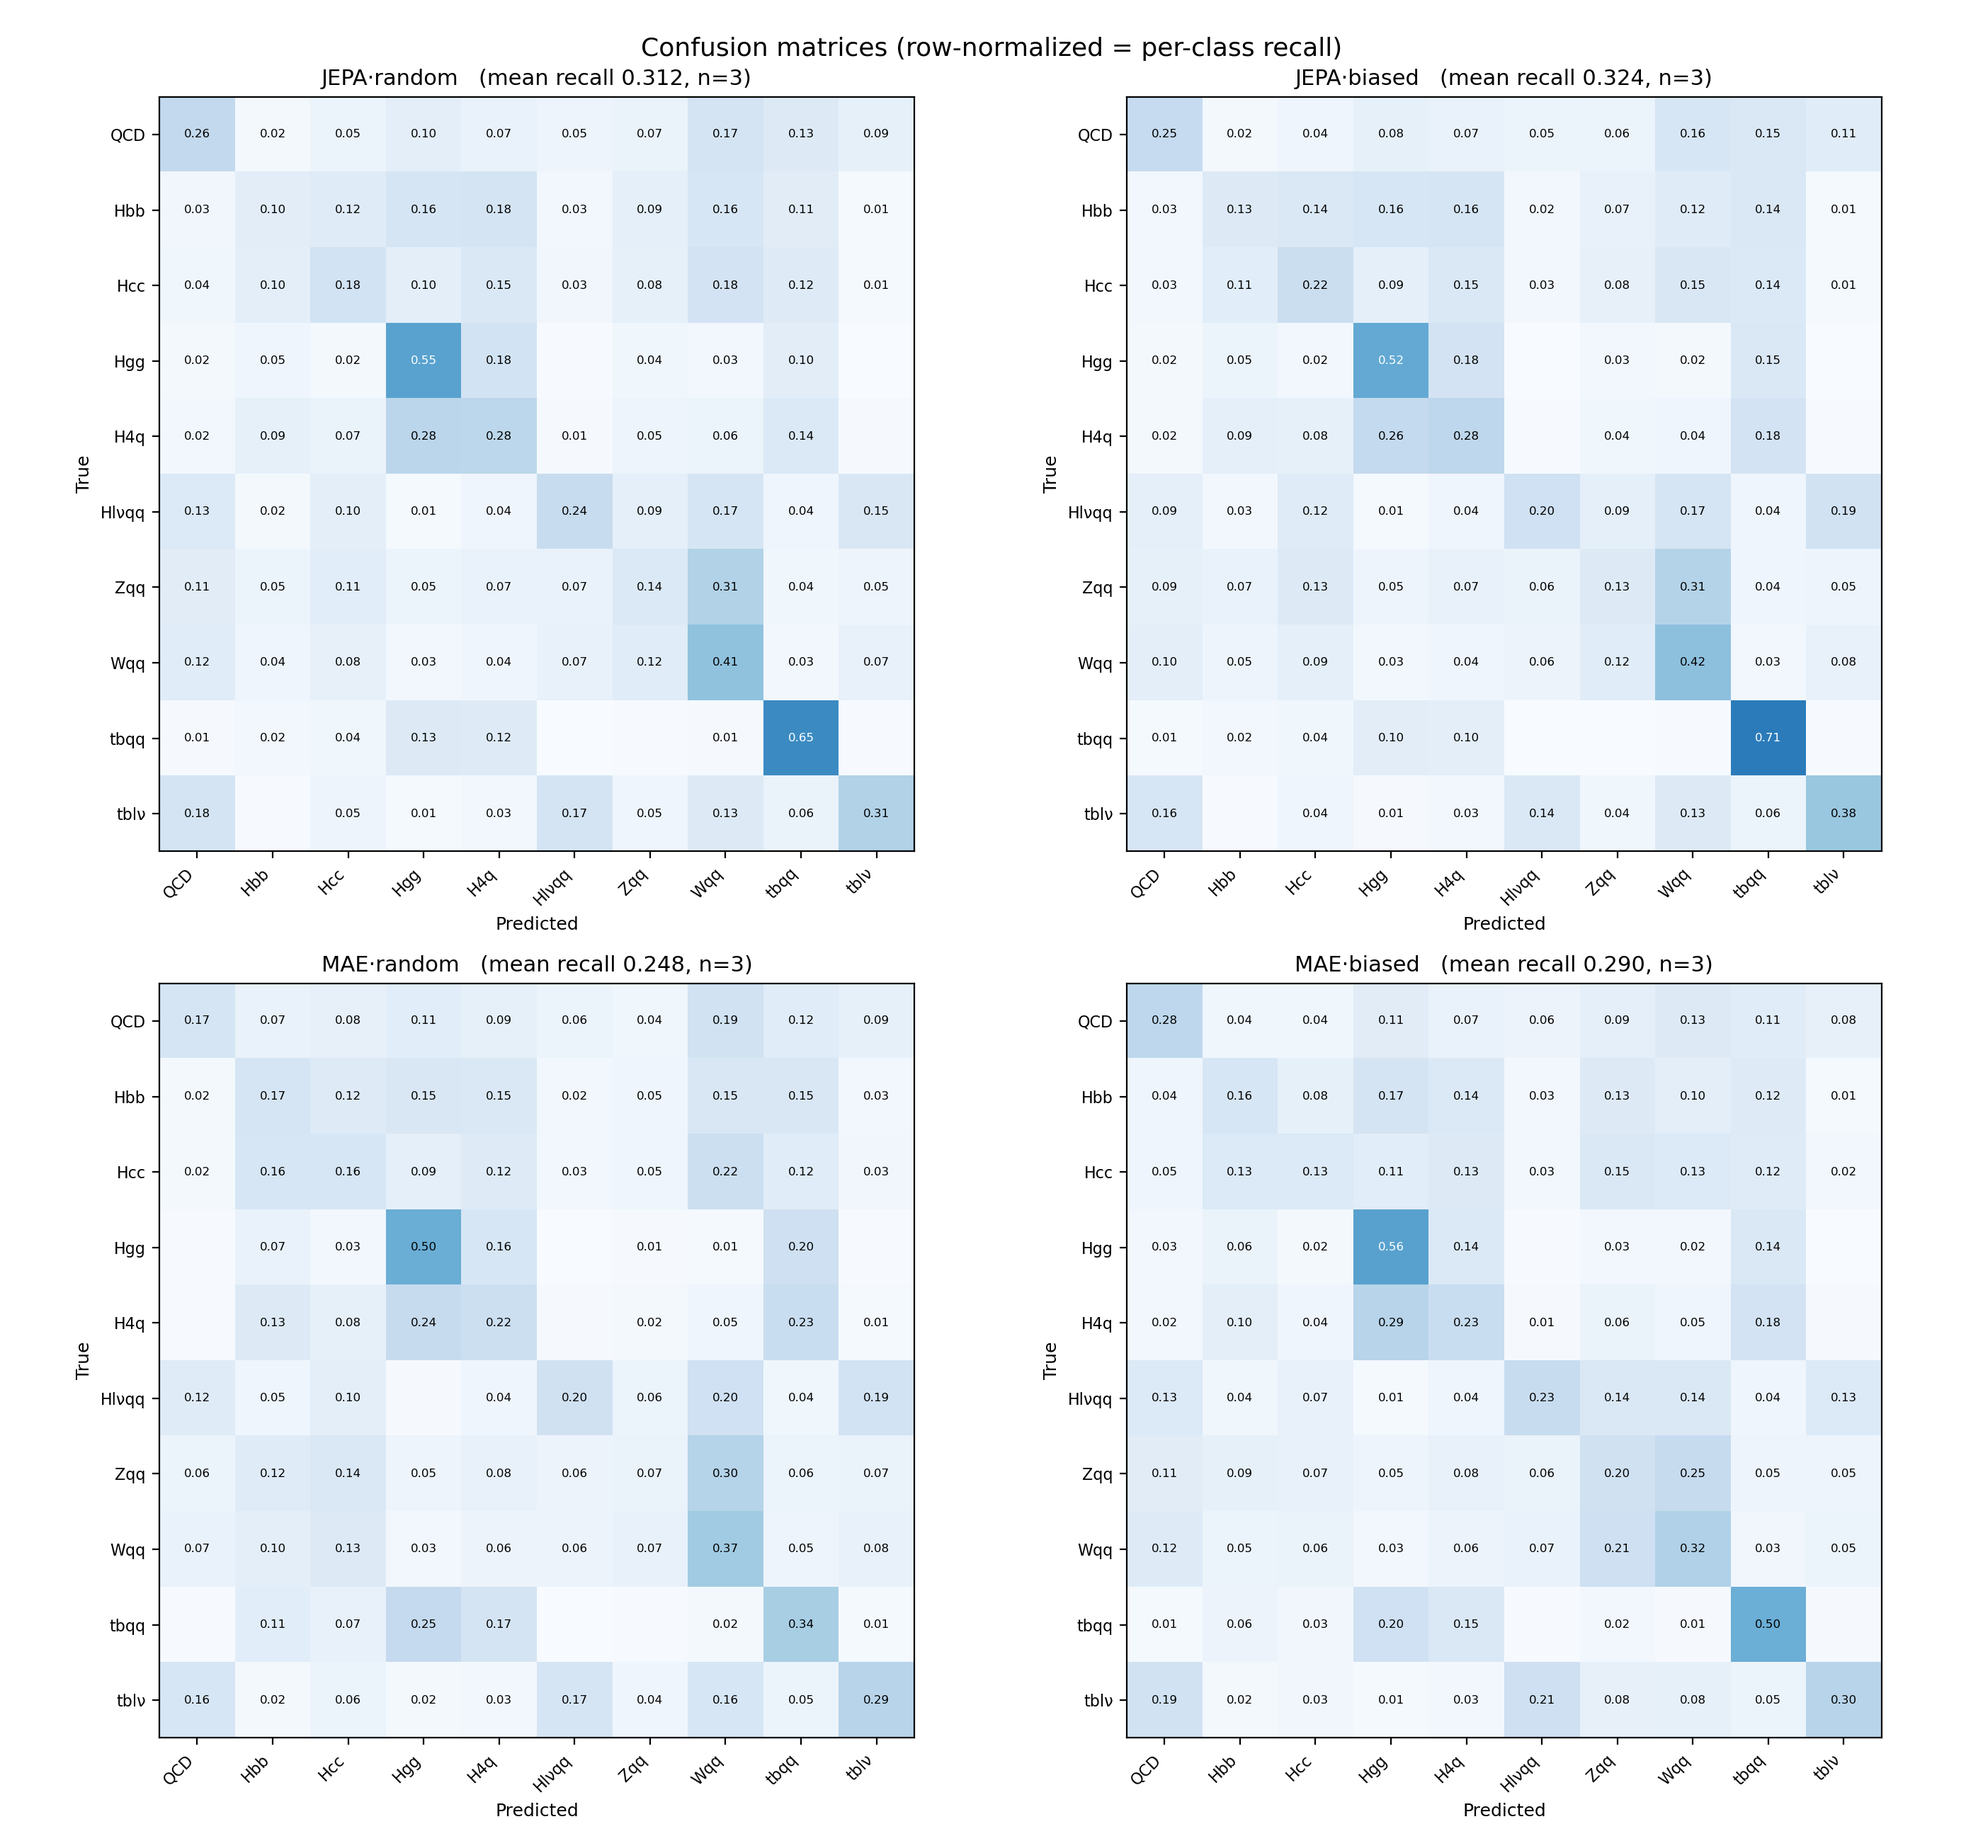
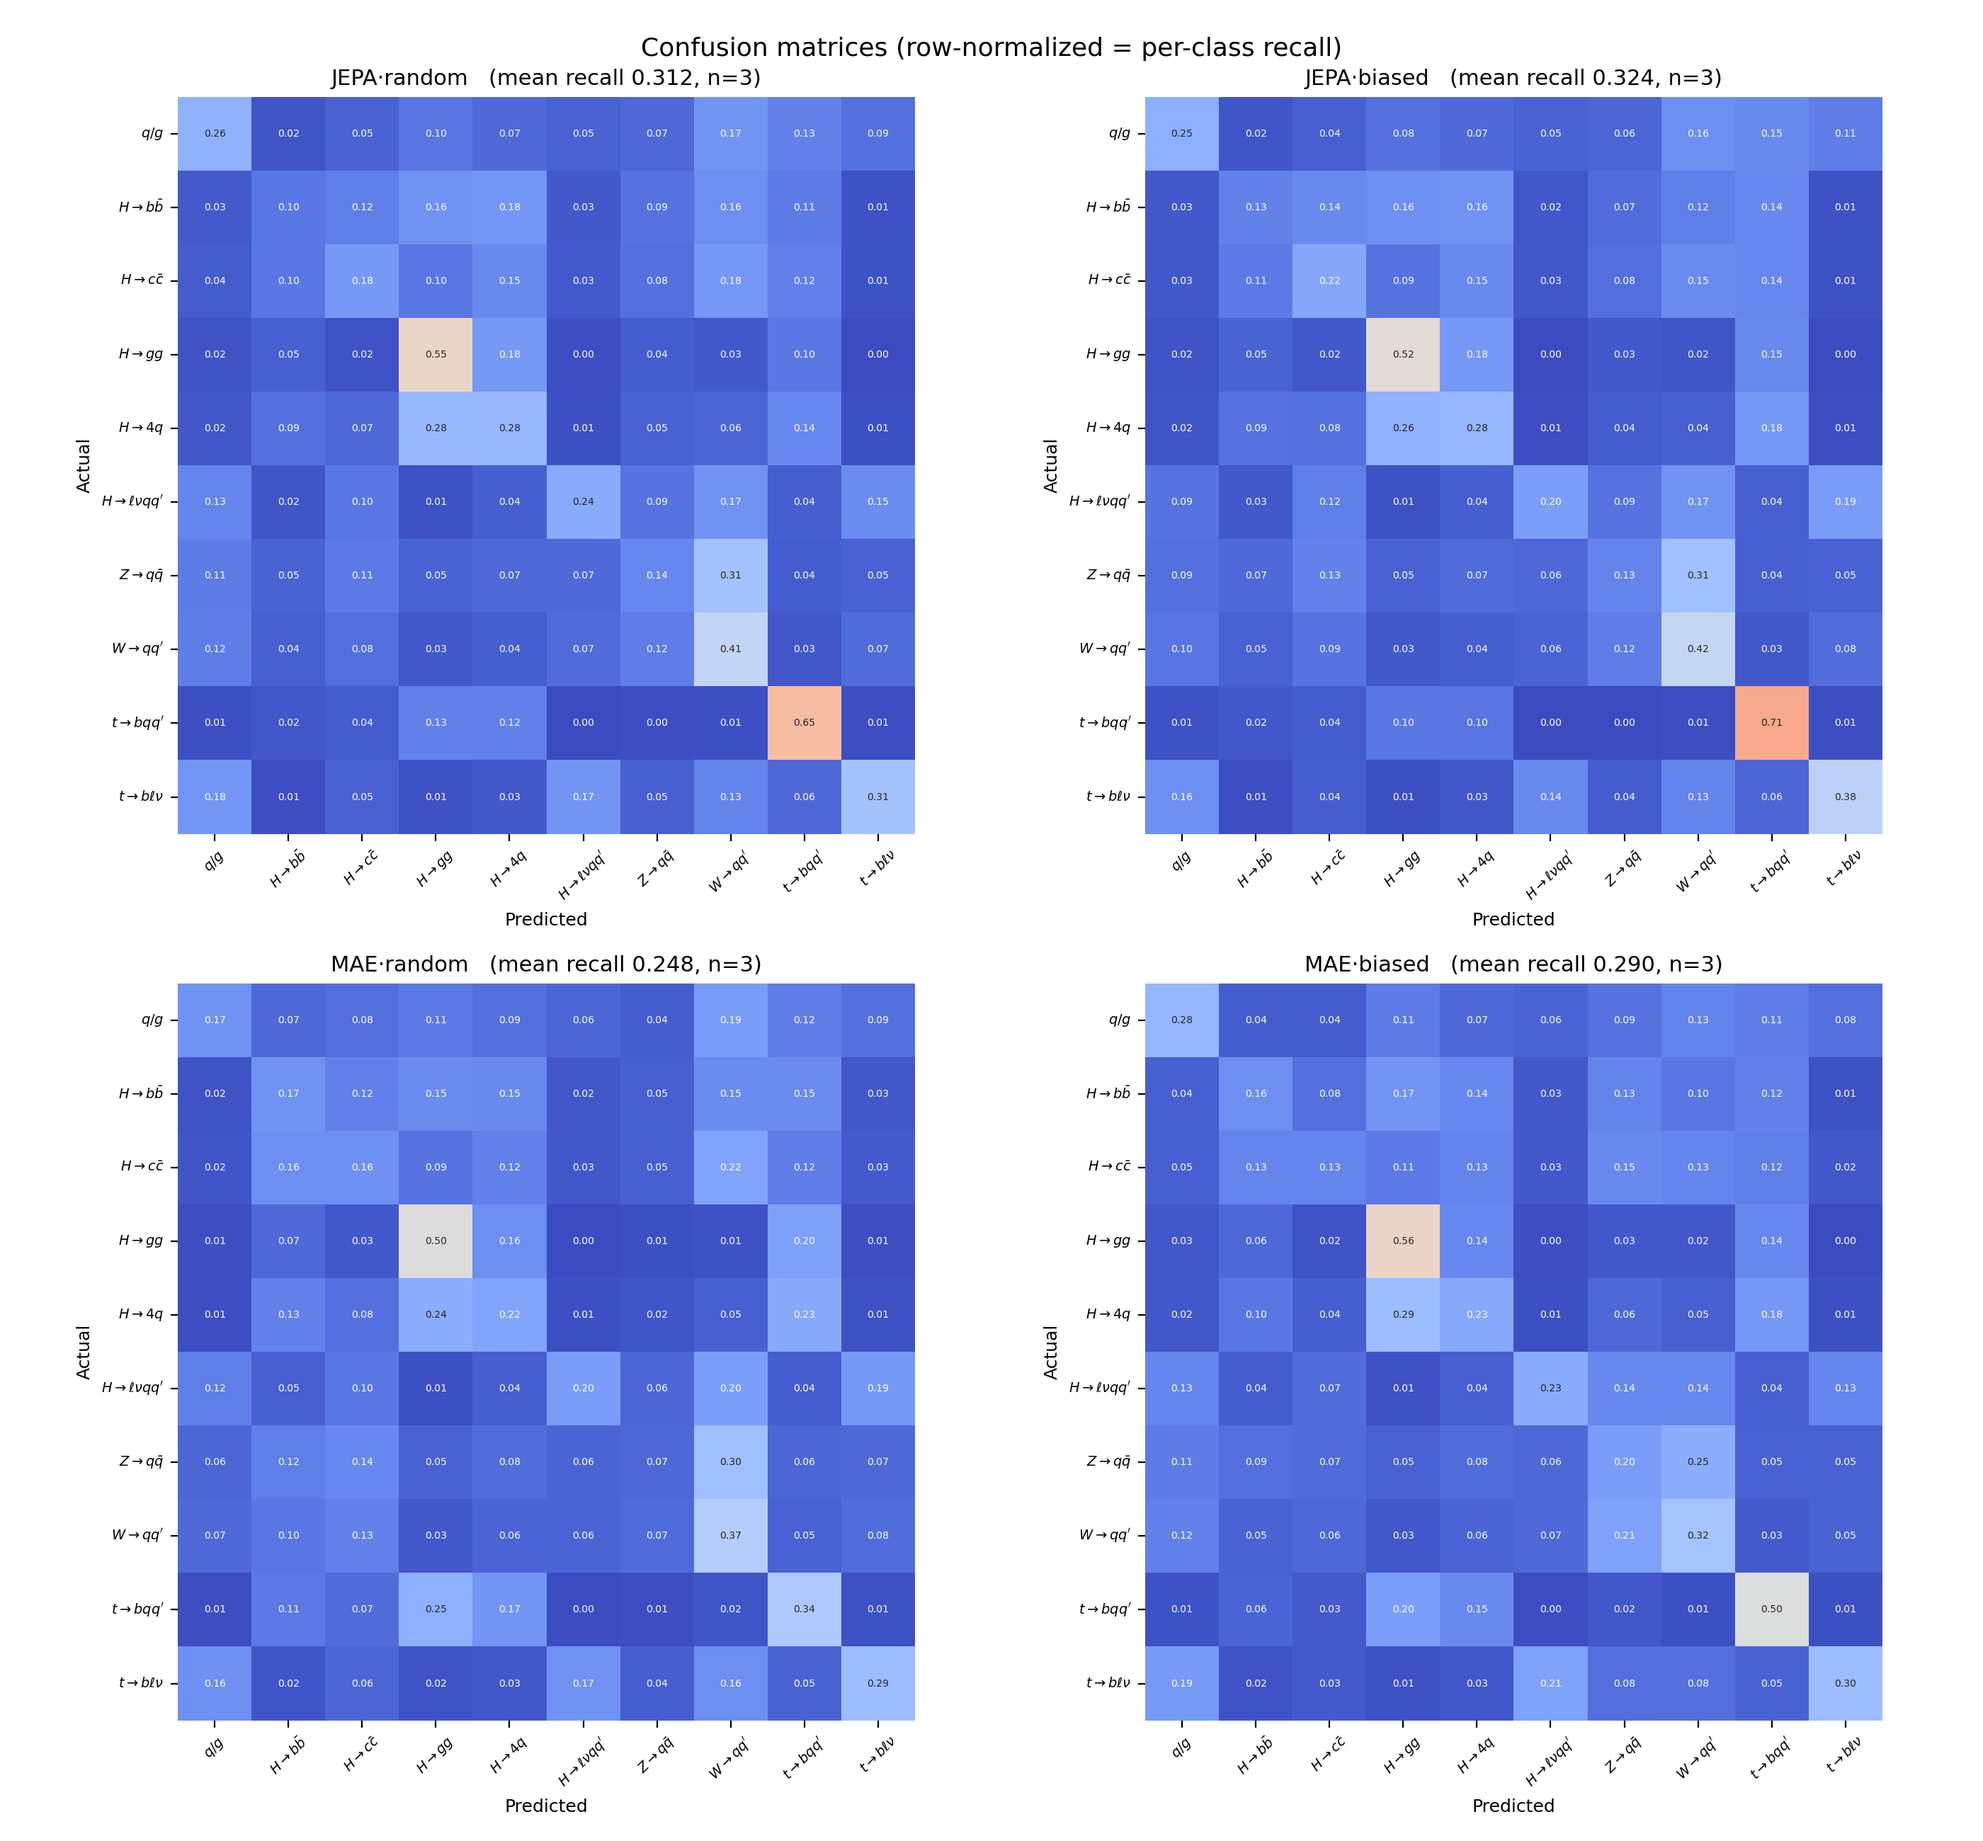
changed gitignore

diff --git a/experiments/phase1/plot_ksweep_compare.py b/experiments/phase1/plot_ksweep_compare.py
@@ -1,0 +1,94 @@
+"""
+Overlay AUC-vs-K for biased vs random masking — the multi-particle-masking
+hypothesis test. If random rises with K while biased stays flat, biased masking
+front-loads the informative particle; if both decline, context depletion dominates.
+
+K=1 points are anchored from the 2×2 (gate_biased / gate_random, 3 seeds each).
+K∈{2,4,8,16} come from the two sweep dirs (biased: k{K}; random: rand_k{K}).
+Works with however many seeds are present (reports n per point).
+
+    python experiments/phase1/plot_ksweep_compare.py
+"""
+
+import argparse
+import glob
+import json
+import os
+
+import matplotlib
+matplotlib.use('Agg')
+import matplotlib.pyplot as plt
+import matplotlib.ticker
+import numpy as np
+
+
+def parse_args():
+    p = argparse.ArgumentParser(description="Biased vs random AUC-vs-K overlay")
+    p.add_argument('--twobytwo-dir', default='./experiments/phase1/results')
+    p.add_argument('--biased-dir',   default='./experiments/phase1/results_ksweep')
+    p.add_argument('--random-dir',   default='./experiments/phase1/results_ksweep_random')
+    p.add_argument('--output',       default='./experiments/phase1/ksweep_biased_vs_random.png')
+    return p.parse_args()
+
+
+def auc(results_dir, cond):
+    """mean, std, n of test_auc for a condition across a dir's seed JSONs."""
+    vals = []
+    for f in sorted(glob.glob(os.path.join(results_dir, 'seed_*.json'))):
+        c = json.load(open(f))['conditions'].get(cond, {})
+        if 'test_auc' in c:
+            vals.append(c['test_auc'])
+    return (np.mean(vals), np.std(vals), len(vals)) if vals else None
+
+
+def curve(args, masking):
+    """Return (Ks, means, stds) for one masking type, anchoring K=1 from the 2×2."""
+    if masking == 'biased':
+        k1 = auc(args.twobytwo_dir, 'gate_biased')
+        rest = {k: auc(args.biased_dir, f'k{k}') for k in (2, 4, 8, 16)}
+    else:
+        k1 = auc(args.twobytwo_dir, 'gate_random')
+        rest = {k: auc(args.random_dir, f'rand_k{k}') for k in (2, 4, 8, 16)}
+
+    pts = {1: k1, **rest}
+    Ks, means, stds = [], [], []
+    for k in sorted(pts):
+        if pts[k] is not None:
+            Ks.append(k); means.append(pts[k][0]); stds.append(pts[k][1])
+    return Ks, means, stds
+
+
+def main():
+    args = parse_args()
+    fig, ax = plt.subplots(figsize=(8, 5.5))
+    styles = {'biased': ('#1B5E20', 'o', 'biased masking'),
+              'random': ('#B71C1C', 's', 'random masking')}
+
+    for masking, (color, marker, label) in styles.items():
+        Ks, means, stds = curve(args, masking)
+        if not Ks:
+            print(f"[skip] no data for {masking}")
+            continue
+        ax.errorbar(Ks, means, yerr=stds, marker=marker, markersize=8, capsize=5,
+                    linewidth=2, color=color, label=label, markeredgecolor='black')
+        for k, m in zip(Ks, means):
+            ax.annotate(f'{m:.3f}', (k, m), textcoords='offset points', xytext=(0, 9),
+                        ha='center', fontsize=8, color=color)
+        print(f"{masking:7s}: " + "  ".join(f"K{k}={m:.4f}" for k, m in zip(Ks, means)))
+
+    ax.set_xscale('log', base=2)
+    ax.set_xticks([1, 2, 4, 8, 16])
+    ax.get_xaxis().set_major_formatter(matplotlib.ticker.ScalarFormatter())
+    ax.set_xlabel('K  (particles masked per jet)')
+    ax.set_ylabel('OVO ROC AUC')
+    ax.set_title('Masking-count sweep: biased vs random  (gate on)')
+    ax.legend(fontsize=10)
+    ax.grid(alpha=0.3)
+    fig.tight_layout()
+    plt.savefig(args.output, dpi=300)
+    plt.close()
+    print(f"\nSaved → {args.output}")
+
+
+if __name__ == '__main__':
+    main()
